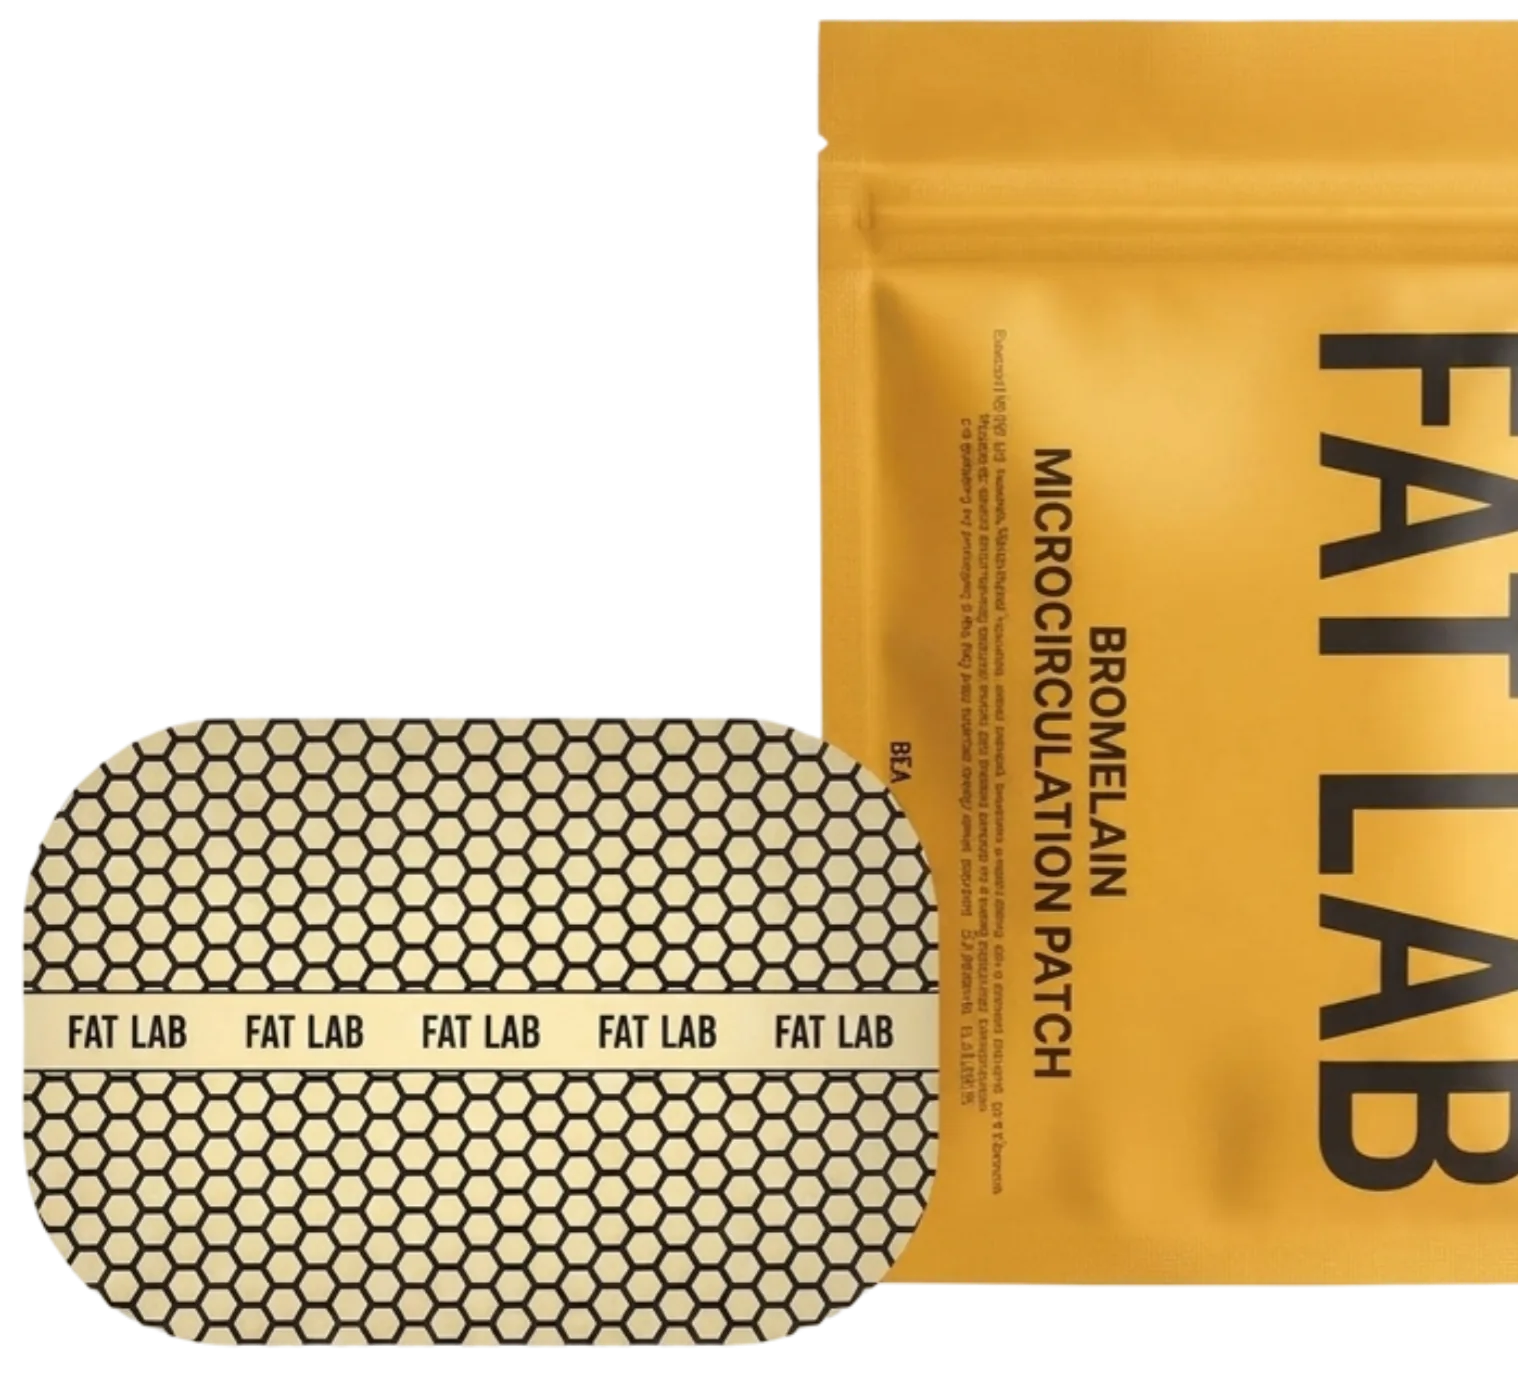
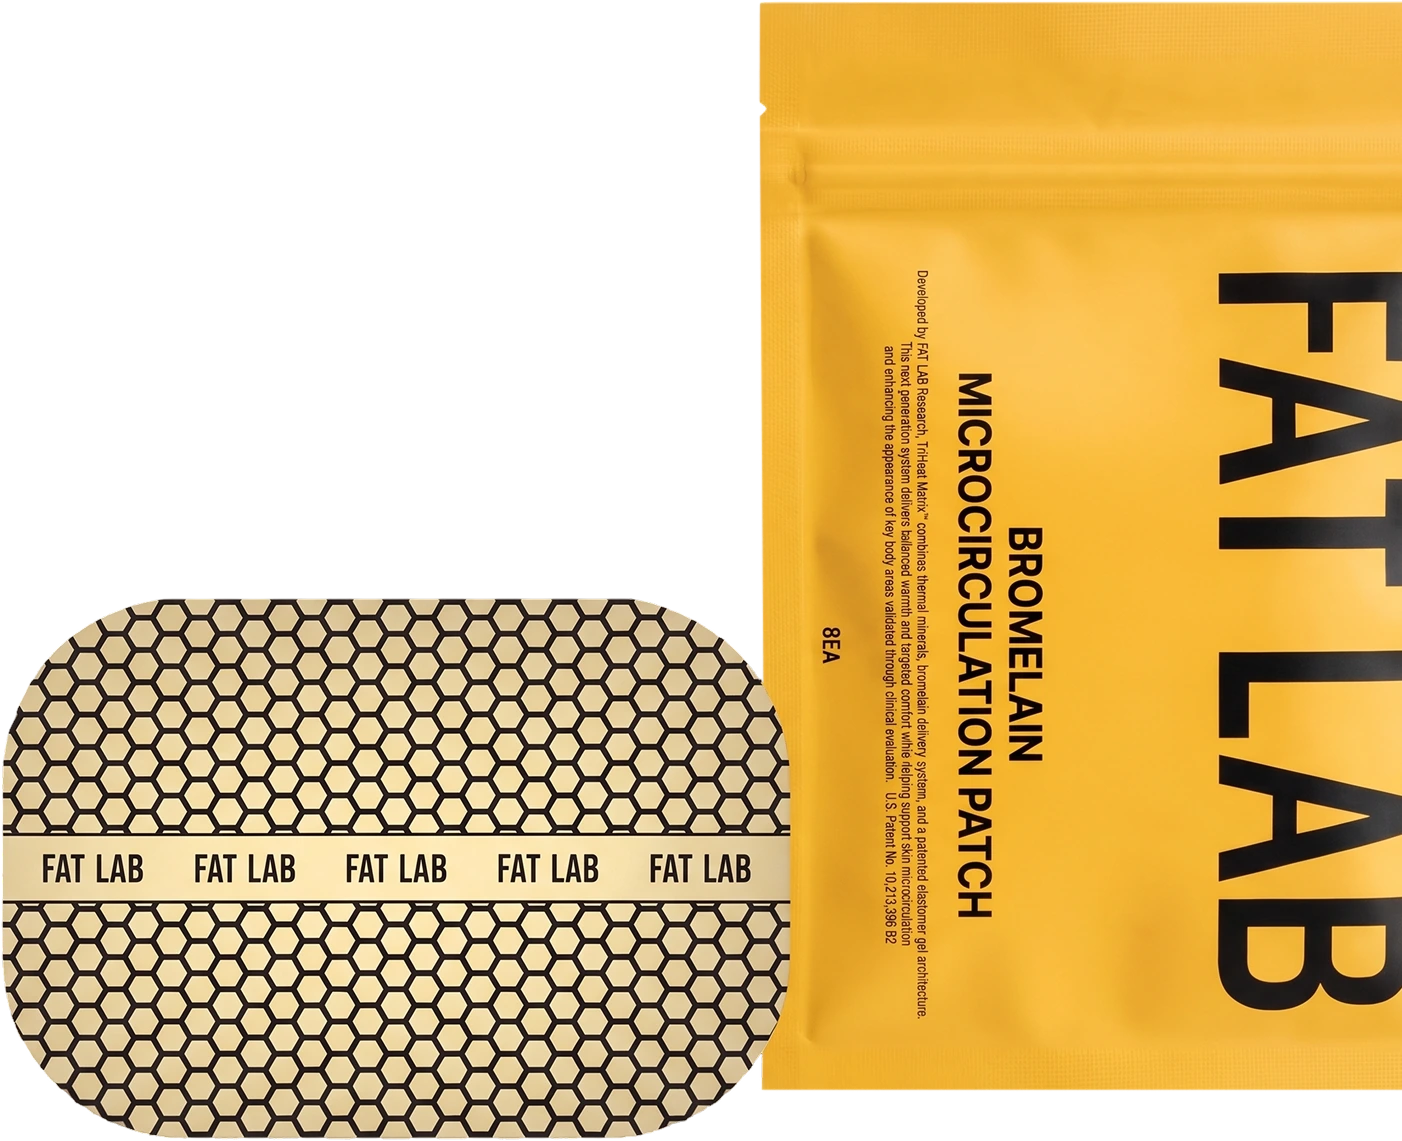
fixed ui bug with blocks, gradient made darker, changed image hight quality

diff --git a/src/common/widgets/landings/FatLabBromelainPatchLandingWidget/sections/_heat.scss b/src/common/widgets/landings/FatLabBromelainPatchLandingWidget/sections/_heat.scss
@@ -26,7 +26,7 @@
     z-index: 0;
     inset: 0;
     width: 100%;
-    height: 60cqi;
+    height: 100%;
     object-fit: cover;
   }
 
@@ -36,7 +36,7 @@
     left: 0;
     top: 0;
     width: 39.306cqi;
-    height: 60cqi;
+    height: 100%;
     overflow: hidden;
   }
 
@@ -109,17 +109,20 @@
   &__stats {
     display: grid;
     grid-template-columns: 1fr 1fr;
+    grid-template-rows: auto auto;
+    grid-auto-flow: column;
     margin-top: 2.54cqi;
     overflow: hidden;
     border-radius: 1.6cqi;
   }
 
-  &__stat { min-width: 0; text-align: center; }
+  &__stat { display: contents; }
   &__stat + &__stat &__value { border-left: 2px solid var(--flb-amber); }
   &__stat + &__stat &__label { border-left: 2px solid var(--flb-ink); }
 
   &__value {
     display: flex;
+    min-width: 0;
     align-items: center;
     justify-content: center;
     height: 5.486cqi;
@@ -128,10 +131,12 @@
     font-size: clamp(18px, 2.15cqi, 32px);
     font-weight: 600;
     line-height: 1;
+    text-align: center;
   }
 
   &__label {
     display: flex;
+    min-width: 0;
     align-items: center;
     justify-content: center;
     min-height: 5.903cqi;
@@ -141,6 +146,7 @@
     font-size: clamp(11px, 1.25cqi, 18px);
     font-weight: 500;
     line-height: 1.18;
+    text-align: center;
   }
 
   & &__note {
@@ -252,17 +258,20 @@
   &__stats {
     display: grid;
     grid-template-columns: minmax(0, 1fr) minmax(0, 1fr);
+    grid-template-rows: auto auto;
+    grid-auto-flow: column;
     overflow: hidden;
     border-radius: 12px;
 
   }
 
-  &__stat { min-width: 0; text-align: center; }
+  &__stat { display: contents; }
   &__stat + &__stat &__value { border-left: 2px solid var(--flb-amber); }
   &__stat + &__stat &__label { border-left: 2px solid var(--flb-ink); }
 
   &__value {
     display: flex;
+    min-width: 0;
     align-items: center;
     justify-content: center;
     min-height: 2.6em;
@@ -271,10 +280,12 @@
     font-size: flb-fluid(20);
     font-weight: 600;
     line-height: 1;
+    text-align: center;
   }
 
   &__label {
     display: flex;
+    min-width: 0;
     align-items: center;
     justify-content: center;
     min-height: 68px;
@@ -284,6 +295,7 @@
     font-size: flb-fluid(13.5);
     font-weight: 500;
     line-height: 1.13;
+    text-align: center;
   }
 
   & &__note {

diff --git a/src/common/widgets/landings/FatLabBromelainPatchLandingWidget/sections/_results.scss b/src/common/widgets/landings/FatLabBromelainPatchLandingWidget/sections/_results.scss
@@ -83,10 +83,34 @@
     pointer-events: none;
   }
 
-  &__shape { position: absolute; left: 52.68cqi; top: 4.049cqi; width: 61.58cqi; height: 54.12cqi; }
-  &__leaf { position: absolute; left: 55.49cqi; top: 10.139cqi; width: 32.36cqi; height: 31.39cqi; }
-  &__product { position: absolute; left: 47.29cqi; top: 8.75cqi; width: 52.71cqi; height: 47.85cqi; }
-  &__logo { position: absolute; left: 85.07cqi; top: 50.83cqi; width: 7.78cqi; height: 1.53cqi; }
+  &__shape {
+    position: absolute;
+    left: 52.68cqi;
+    top: 4.049cqi;
+    width: 61.58cqi;
+    height: 51.12cqi;
+  }
+  &__leaf {
+    position: absolute;
+    left: 55.49cqi;
+    top: 10.139cqi;
+    width: 32.36cqi;
+    height: 31.39cqi;
+  }
+  &__product {
+    position: absolute;
+    left: 47.29cqi;
+    top: 8.75cqi;
+    width: 52.71cqi;
+    height: 42.9cqi;
+  }
+  &__logo {
+    position: absolute;
+    left: 85.07cqi;
+    top: 46.83cqi;
+    width: 7.78cqi;
+    height: 1.53cqi;
+  }
 }
 
 .flb-results-m {
@@ -171,8 +195,32 @@
     pointer-events: none;
   }
 
-  &__shape { position: absolute; left: 23.5%; top: 0; width: 99.4%; height: 89%; }
-  &__leaf { position: absolute; left: 28%; top: 10%; width: 52.4%; height: auto; }
-  &__product { position: absolute; left: 14.8%; top: 7.73%; width: 85.2%; height: auto; }
-  &__logo { position: absolute; left: 75.9%; top: 77.1%; width: 12.7%; height: auto; }
+  &__shape {
+    position: absolute;
+    left: 23.5%;
+    top: 0;
+    width: 99.4%;
+    height: 84%;
+  }
+  &__leaf {
+    position: absolute;
+    left: 28%;
+    top: 10%;
+    width: 52.4%;
+    height: auto;
+  }
+  &__product {
+    position: absolute;
+    left: 14.8%;
+    top: 7.73%;
+    width: 85.2%;
+    height: auto;
+  }
+  &__logo {
+    position: absolute;
+    left: 75.9%;
+    top: 70.1%;
+    width: 12.7%;
+    height: auto;
+  }
 }

diff --git a/src/common/widgets/landings/FatLabBromelainPatchLandingWidget/sections/_safety.scss b/src/common/widgets/landings/FatLabBromelainPatchLandingWidget/sections/_safety.scss
@@ -13,8 +13,8 @@
   min-height: 55.556cqi;
   overflow: hidden;
   background:
-    radial-gradient(ellipse 34cqi 21cqi at 64.5cqi 21cqi, #fff0c6 0%, rgba(253, 230, 170, 0.75) 45%, rgba(239, 194, 105, 0) 100%),
-    #efc269;
+    radial-gradient(ellipse 34cqi 21cqi at 64.5cqi 21cqi, #fff0c6 0%, rgba(253, 230, 170, 0.75) 45%, rgba(236, 184, 79, 0) 100%),
+    #ecb84f;
   color: var(--flb-ink);
 
   &__pattern {
@@ -195,7 +195,7 @@
   position: relative;
   padding: 40px 0 28px;
   overflow: hidden;
-  background: linear-gradient(180deg, #f3d394 0%, #f2cf8a 8.4%, #f1cb7f 15.5%, #efc774 22.6%, #eec472 29.7%, #edbe5f 36.8%, #ecba55 43.9%, #ecb648 51%, #ebb445 58%, #eaad35 65.2%, #e9aa2a 72.3%, #e8a620 79.3%, #e7a115 86.5%, #e69e0b 93.6%, #e69a01 100%);
+  background: linear-gradient(180deg, #f1cb7f 0%, #efc774 8.4%, #eec472 15.5%, #edbe5f 22.6%, #ecba55 29.7%, #ecb648 36.8%, #ebb445 43.9%, #eaad35 51%, #e9aa2a 58%, #e8a620 65.2%, #e7a115 72.3%, #e69e0b 79.3%, #e69a01 86.5%, #e69a01 93.6%, #e69a01 100%);
   color: var(--flb-ink);
 
   &__pattern {

diff --git a/src/common/widgets/landings/FatLabBromelainPatchLandingWidget/sections/ResultsSection.tsx b/src/common/widgets/landings/FatLabBromelainPatchLandingWidget/sections/ResultsSection.tsx
@@ -65,8 +65,8 @@ export function ResultsSection() {
             <img
               className='flb-results__product'
               src={asset('results-product.webp')}
-              width={1518}
-              height={1378}
+              width={1402}
+              height={1141}
               alt=''
               loading='lazy'
               decoding='async'
@@ -107,8 +107,8 @@ export function ResultsSection() {
             <img
               className='flb-results-m__product'
               src={asset('results-product-m.webp')}
-              width={670}
-              height={608}
+              width={1402}
+              height={1141}
               alt=''
               loading='lazy'
               decoding='async'
